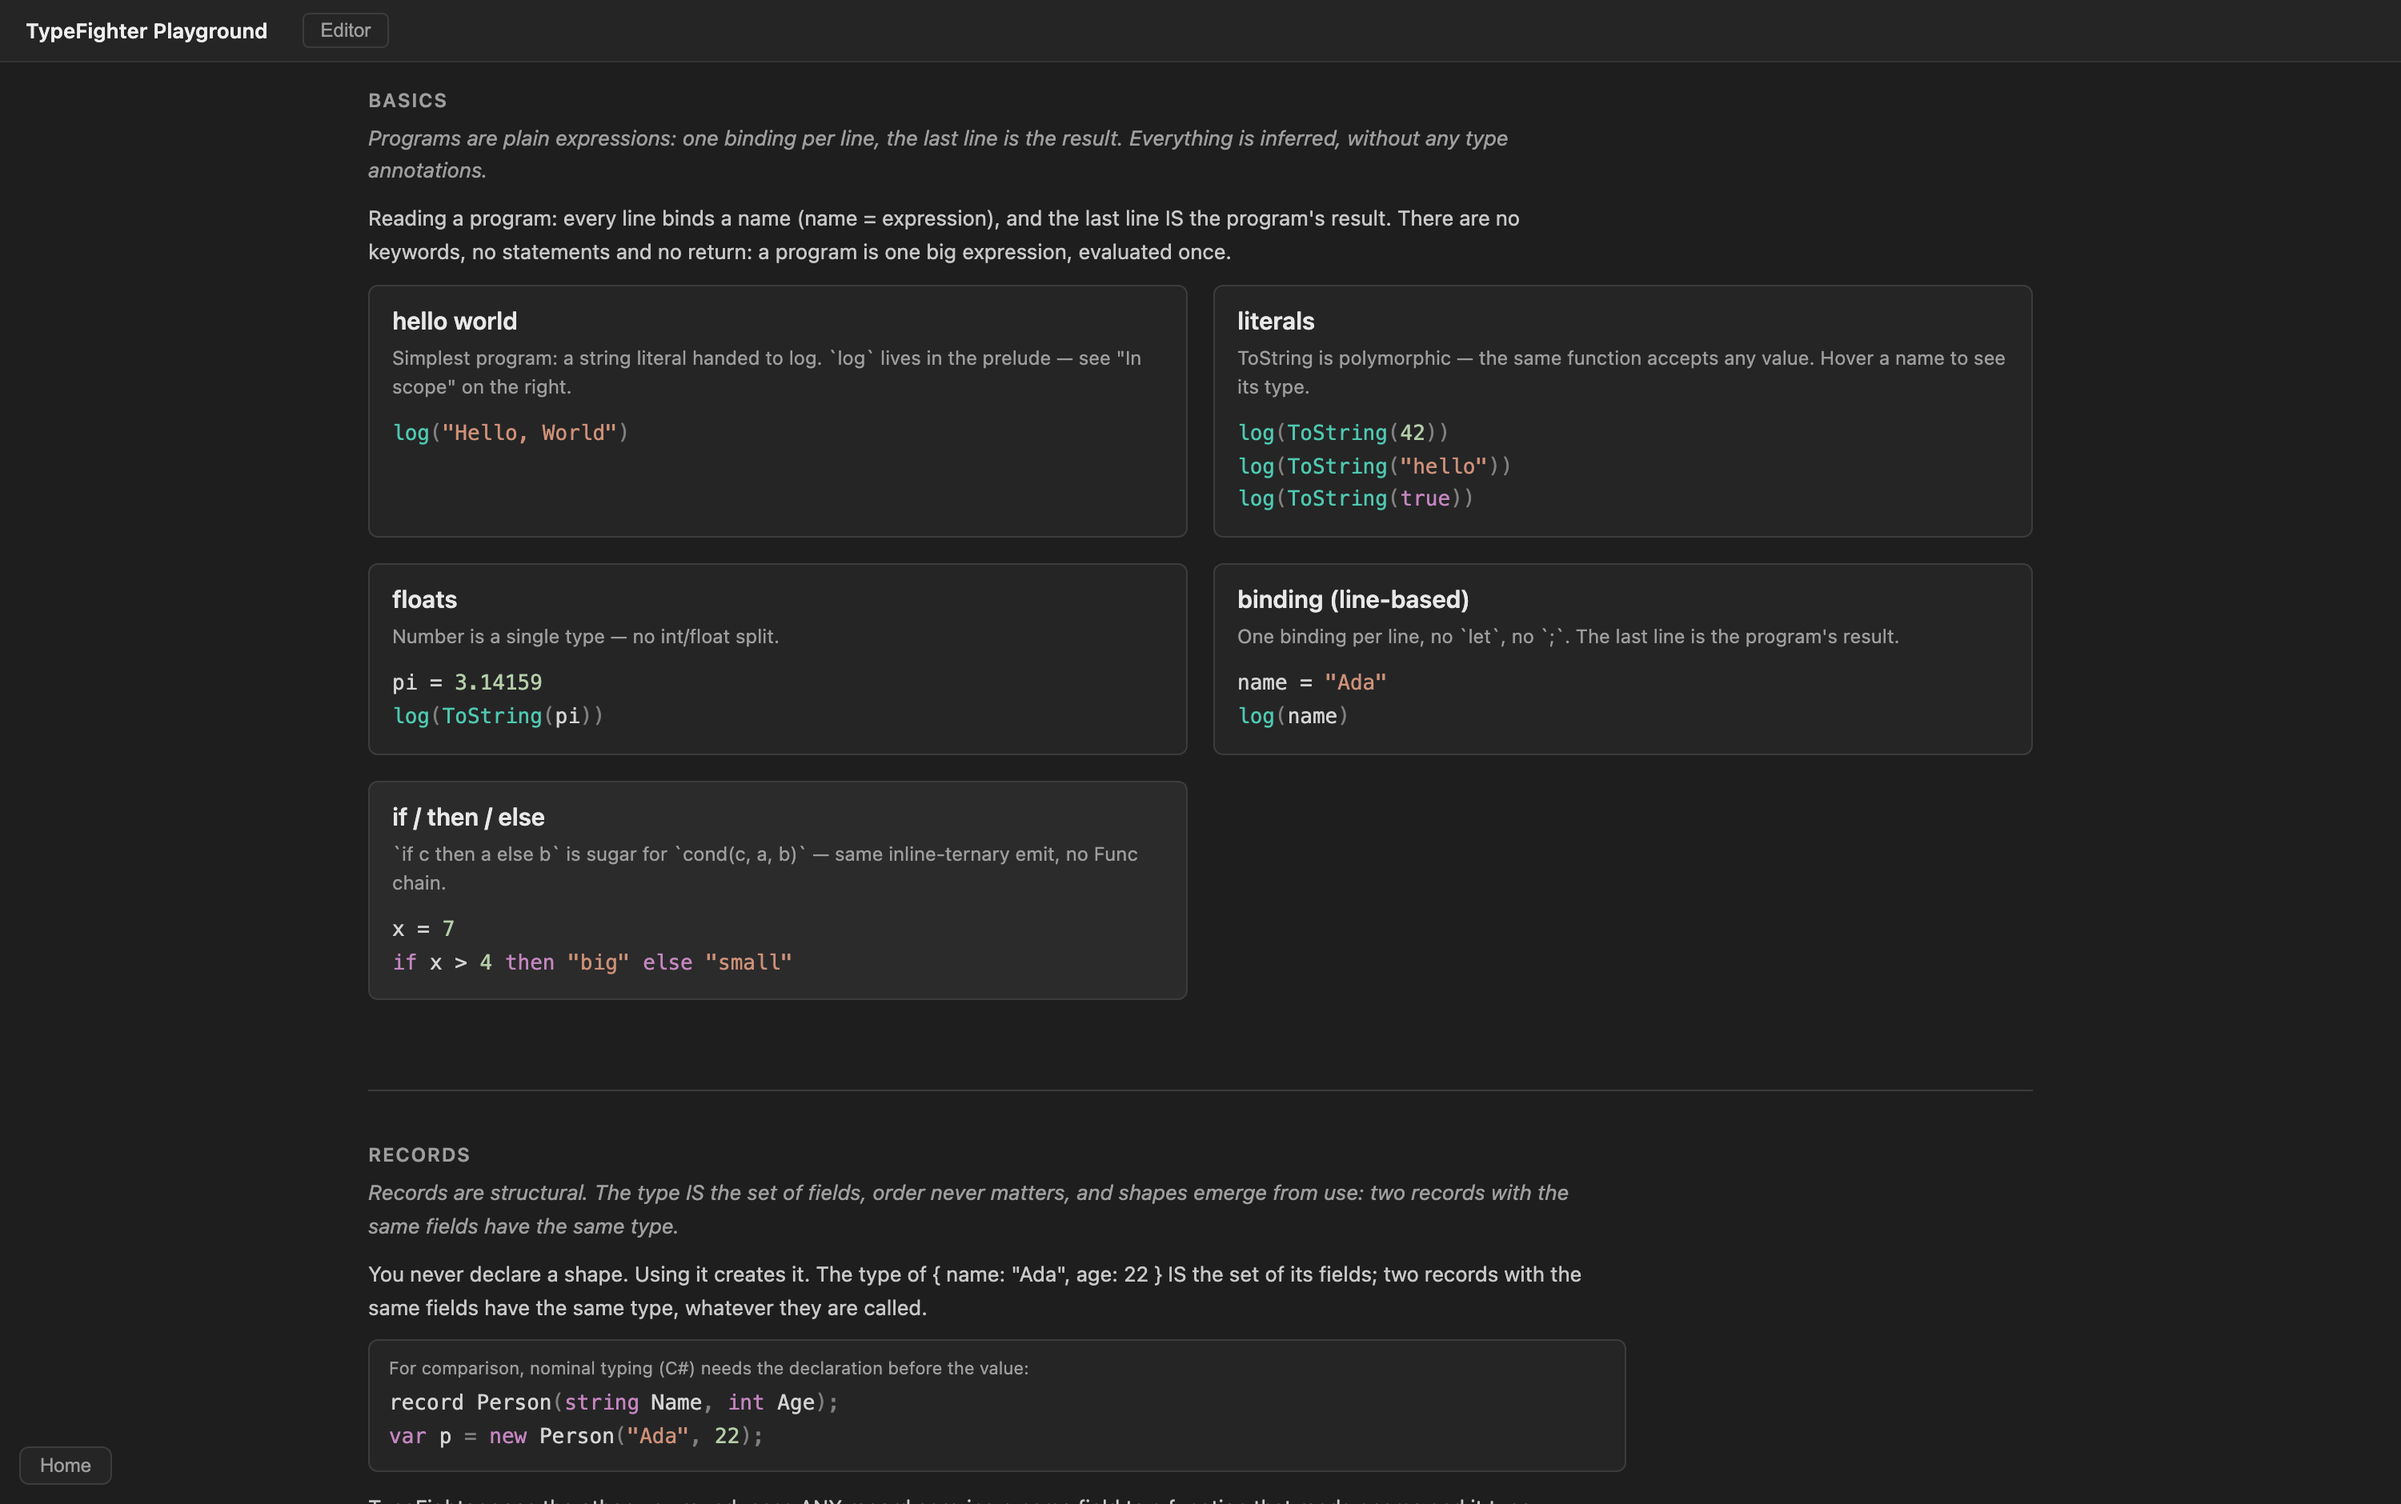
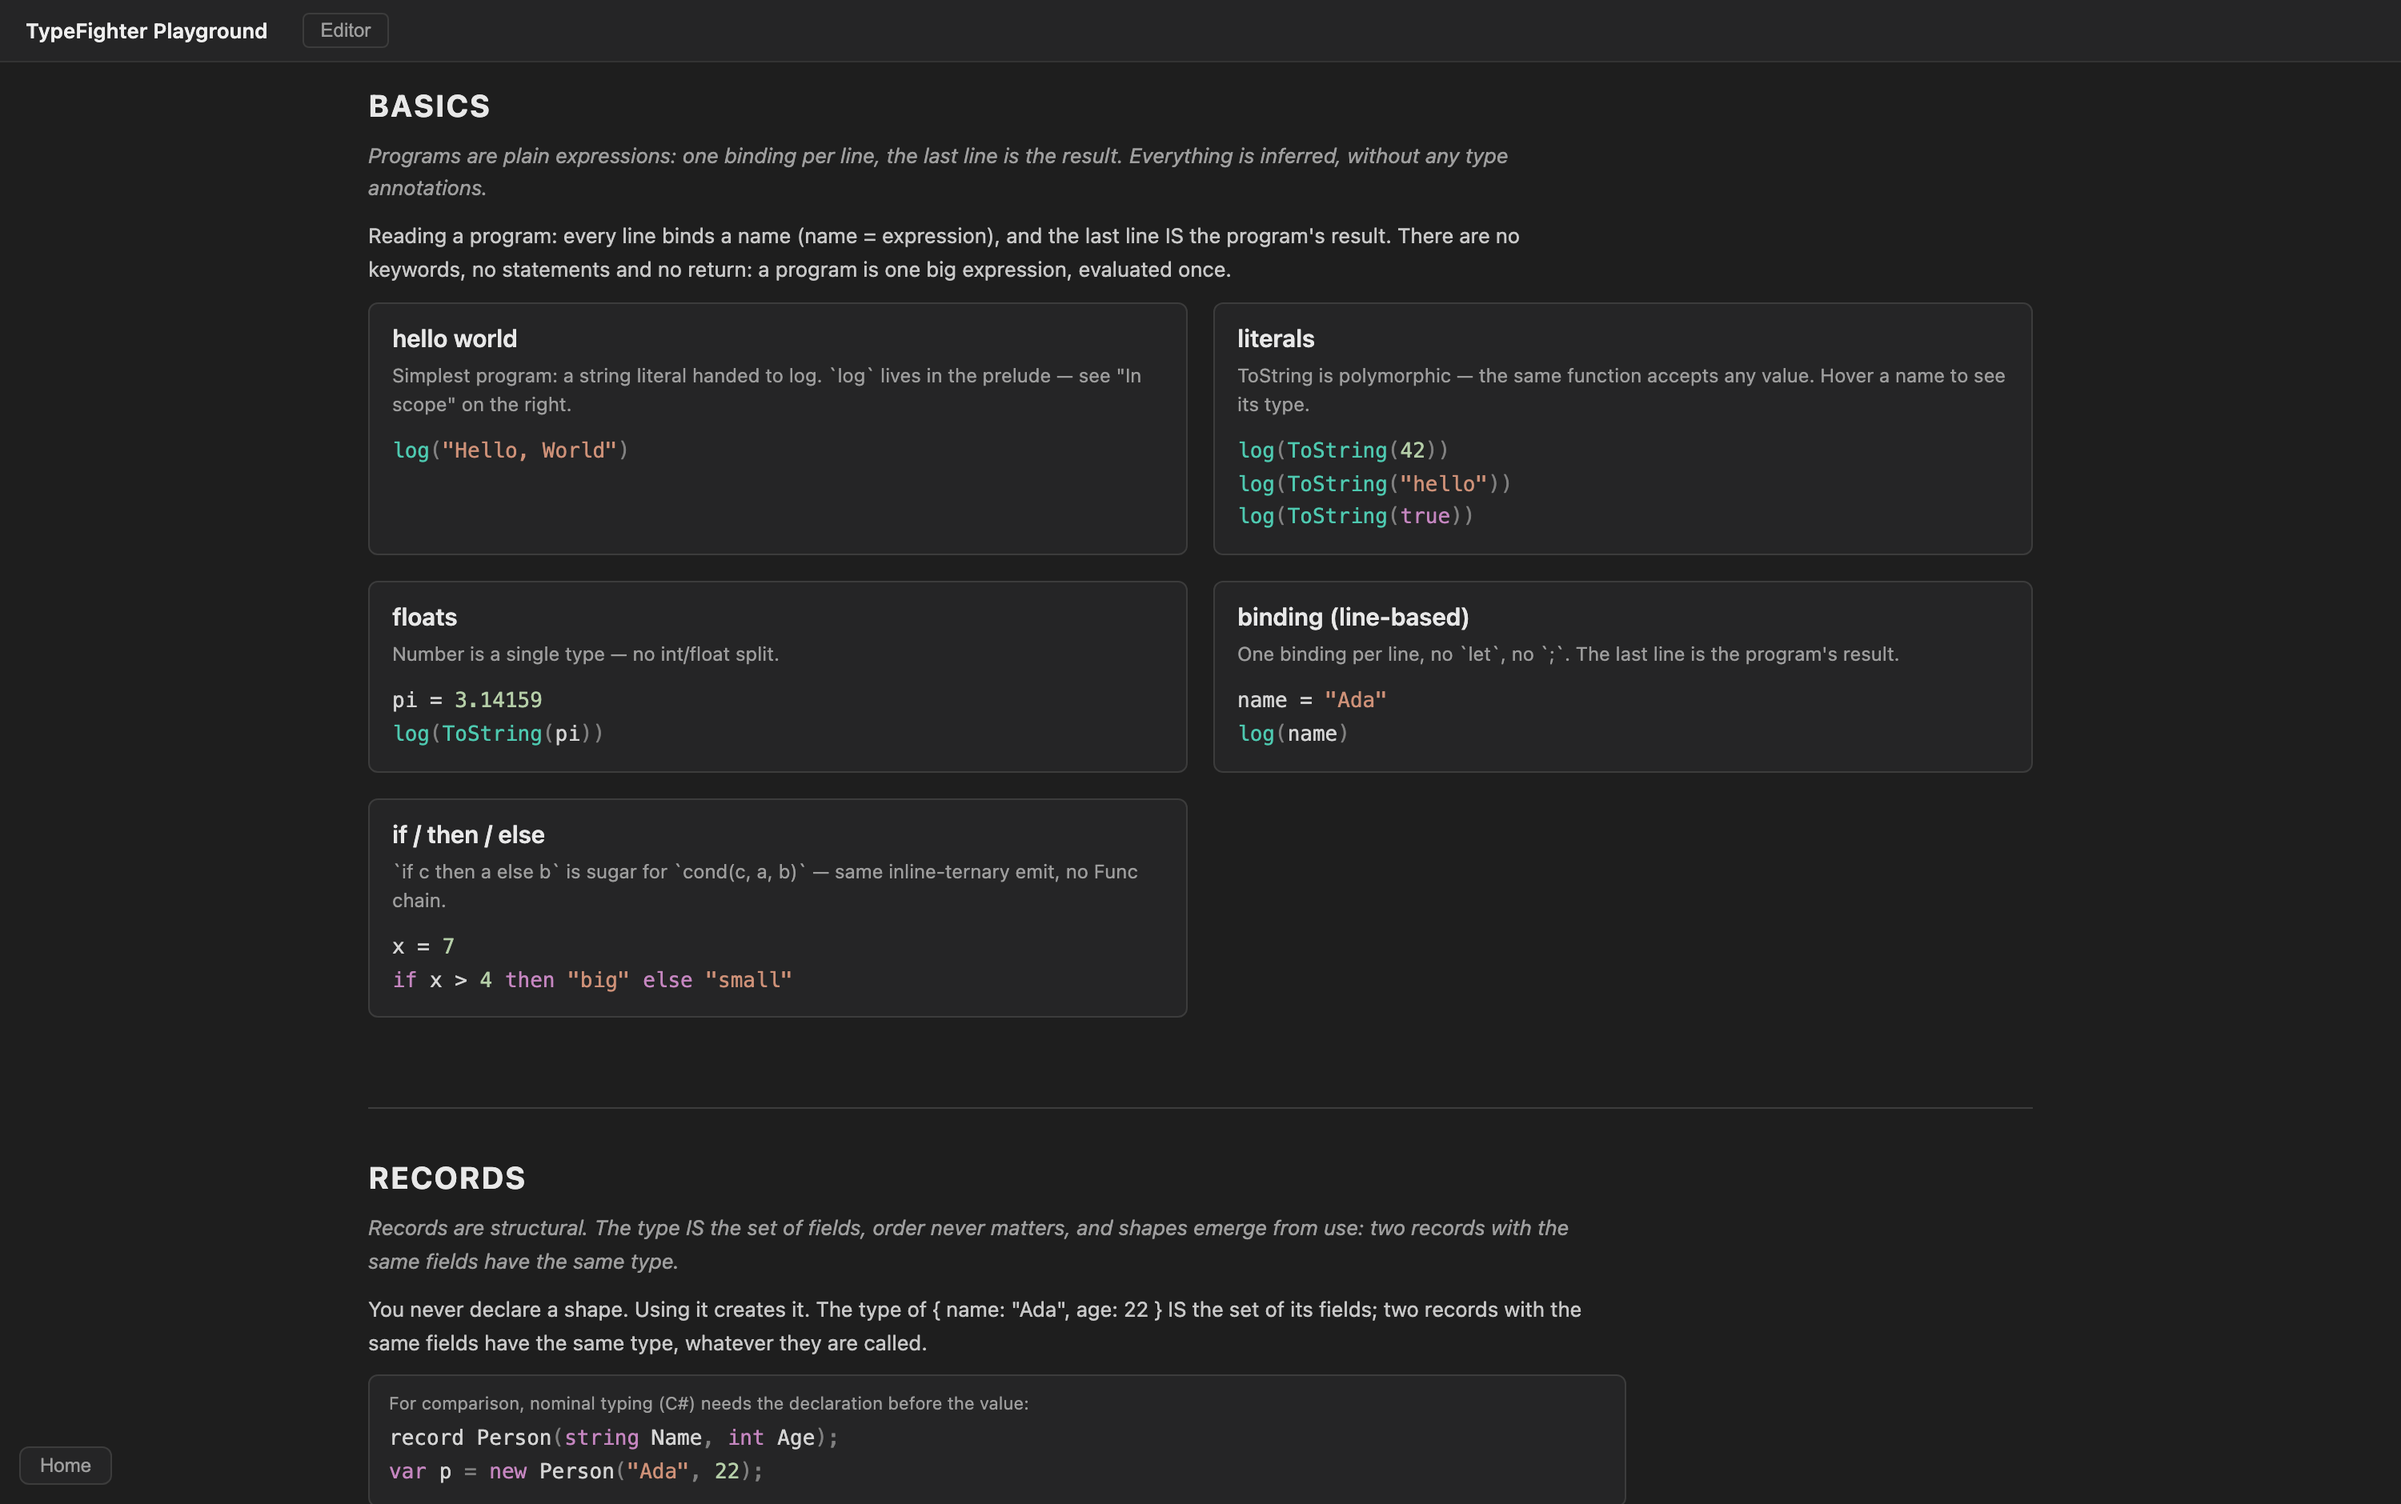
Beispiel-Übersicht: Kategorie-Überschriften größer und heller, Doku-Screenshot aktualisiert

diff --git a/editor/src/ExampleOverview.tsx b/editor/src/ExampleOverview.tsx
@@ -150,9 +150,10 @@ export function ExampleOverview({
           }}
         >
           <div style={{
-            margin: "0 0 6px", fontSize: 12, fontWeight: 600,
-            textTransform: "uppercase", letterSpacing: 0.8,
-            color: cat.expectsError ? "var(--tfe-danger, #f48771)" : "var(--tfe-text-muted, #9d9d9d)",
+            margin: "0 0 10px", fontSize: 19, fontWeight: 700,
+            textTransform: "uppercase", letterSpacing: 1.2,
+            fontFamily: "system-ui, sans-serif",
+            color: cat.expectsError ? "var(--tfe-danger, #f48771)" : "var(--tfe-text, #e8e8e8)",
           }}>
             {cat.name}
           </div>
